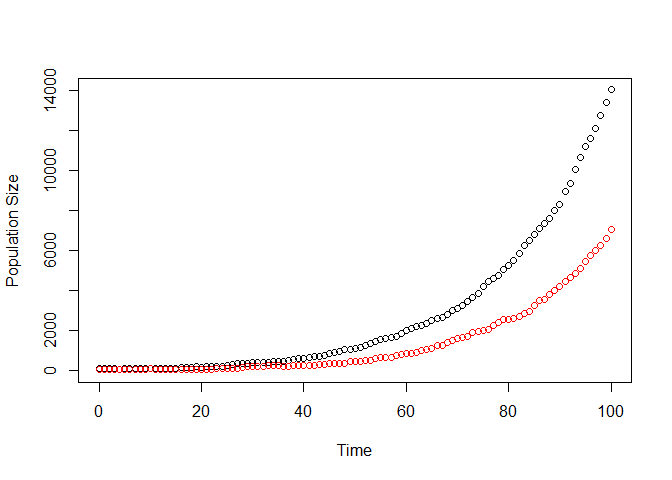
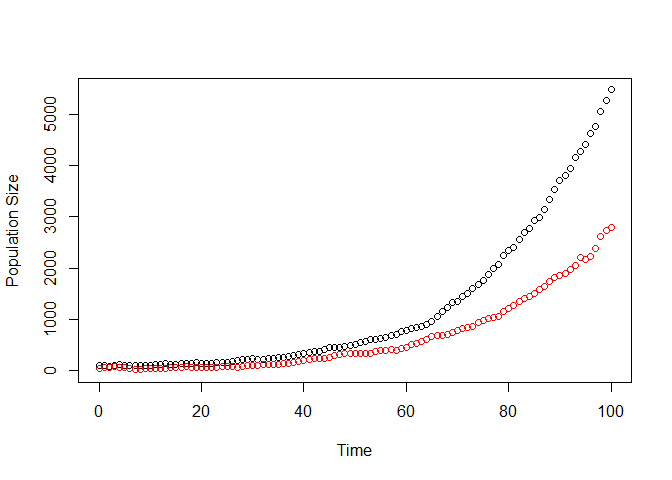
readme

diff --git a/README.md b/README.md
@@ -272,12 +272,12 @@ head(mut)
 
 |  mutant|     time| population |   fitness|
 |-------:|--------:|:-----------|---------:|
-|       1|  54.1750| pop1       |  0.000000|
-|       2|  64.3642| pop1       |  0.745477|
-|       3|  80.4528| pop1       |  2.327470|
-|       4|  80.4555| pop1       |  0.000000|
-|       5|  85.8792| pop1       |  0.149199|
-|       6|  88.0051| pop1       |  2.846240|
+|       1|  10.8402| pop1       |  2.092220|
+|       2|  52.8492| pop1       |  1.586430|
+|       3|  78.6540| pop1       |  0.952714|
+|       4|  93.0443| pop1       |  1.980720|
+|       5|  94.5911| pop1       |  1.664160|
+|       6|  96.8391| pop1       |  2.429780|
 
 Let us also take a quick look at a census file. We will take a look at the full census of pop1 at the end of the simulation time.
 
@@ -292,20 +292,10 @@ c_pop1 = read.csv(census_pop1_files[length(census_pop1_files)])
 c_pop1[c_pop1$time == max(c_pop1$time),]
 ```
 
-|     |  time|  barcode| mutation     |   fitness|  count|
-|-----|-----:|--------:|:-------------|---------:|------:|
-| 48  |   100|       -1| 0&gt;6       |  2.846240|   7026|
-| 49  |   100|       -1| 0            |  1.000000|   6399|
-| 50  |   100|       30| 0            |  1.000000|    423|
-| 51  |   100|        5| 0            |  1.000000|     80|
-| 52  |   100|       84| 0            |  1.000000|     68|
-| 53  |   100|       32| 0            |  1.000000|     13|
-| 54  |   100|       -1| 0&gt;8       |  1.588630|     10|
-| 55  |   100|       -1| 0&gt;6&gt;10 |  2.918170|      4|
-| 56  |   100|       -1| 0&gt;9       |  1.207500|      1|
-| 57  |   100|       -1| 0&gt;6&gt;11 |  3.498840|      1|
-| 58  |   100|       -1| 0&gt;6&gt;12 |  0.883184|      1|
-| 59  |   100|       -1| 0&gt;6&gt;13 |  3.239040|      1|
+|     |  time|  barcode| mutation    |  fitness|  count|
+|-----|-----:|--------:|:------------|--------:|------:|
+| 52  |   100|       -1| 0&gt;1      |  2.09222|   5462|
+| 53  |   100|       -1| 0&gt;1&gt;6 |  2.42978|      7|
 
 For more detailed examples, please set the vignettes.
 
